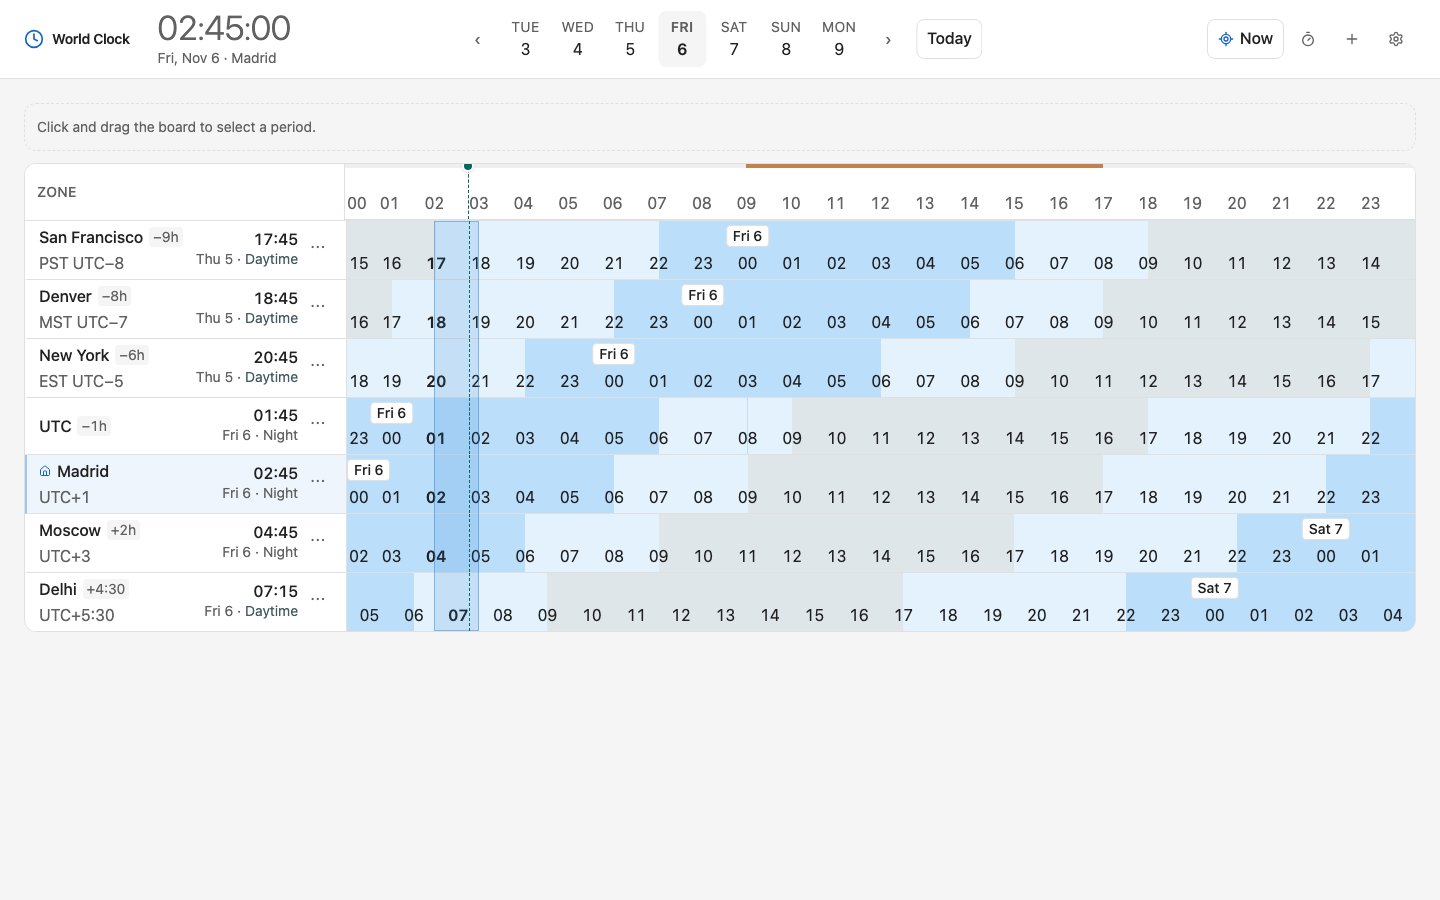
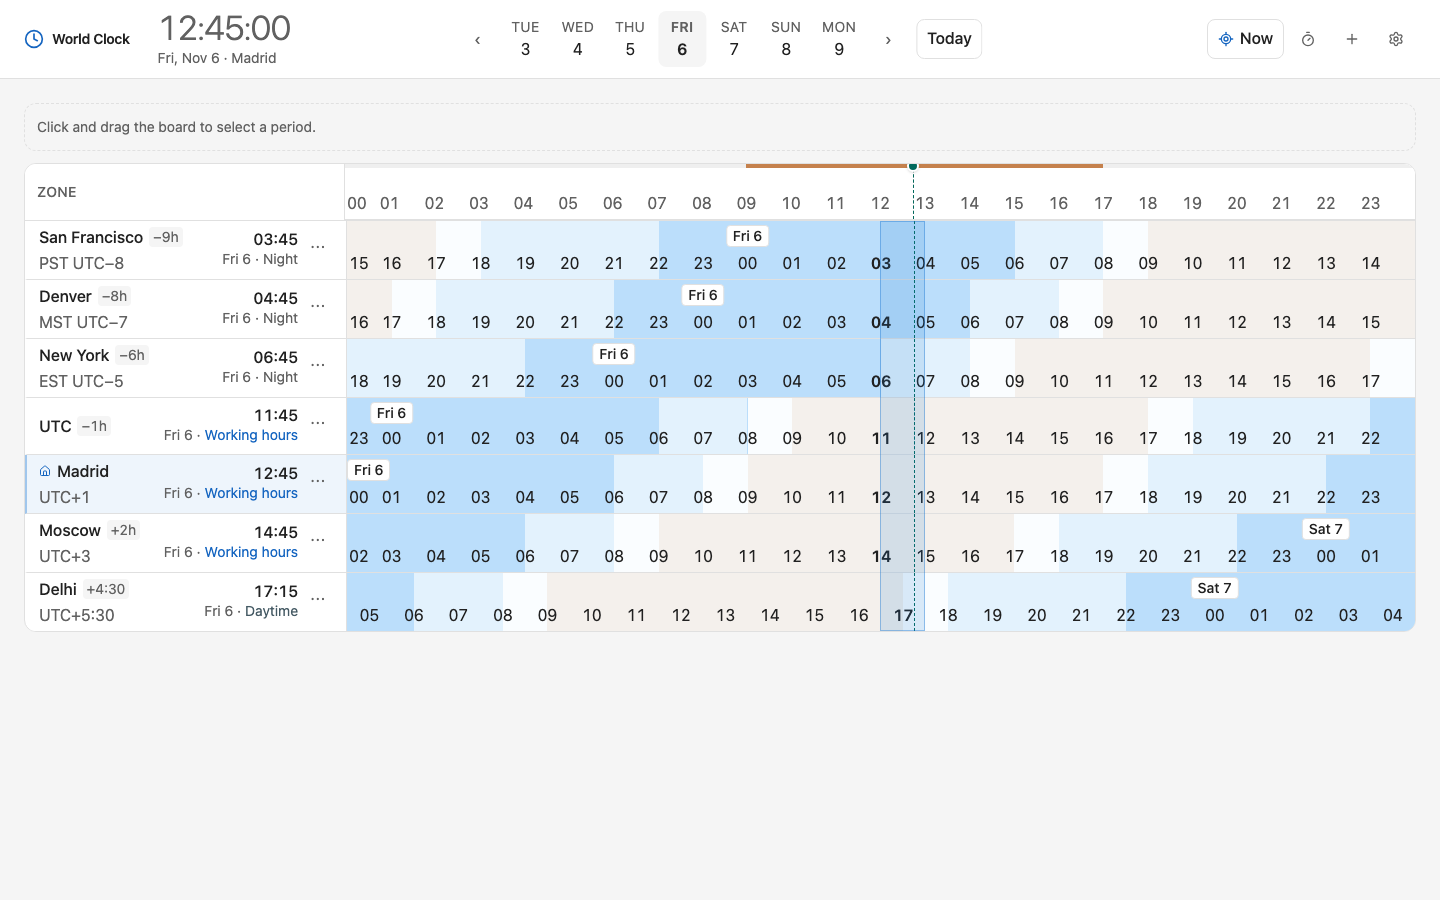
style: lighten the daylight band
Use a near-white blue tint for daylight cells so they read almost white, while keeping twilight and night distinct.

diff --git a/src/app.css b/src/app.css
@@ -41,7 +41,7 @@
   --accent: #1976d2;
   --accent-text: #1565c0;
   --accent-contrast: #ffffff;
-  --band-day: #e3f2fd;
+  --band-day: #fafdff;
   --band-twilight: #e3f2fd;
   --band-night: #bbdefb;
   --band-work: rgb(180 83 9 / 8%);
@@ -66,7 +66,7 @@
   --text: #e8e8e8;
   --muted: #bdbdbd;
   --border: #555555;
-  --band-day: #e3f2fd;
+  --band-day: #fafdff;
   --band-twilight: #e3f2fd;
   --band-night: #bbdefb;
   --band-work: rgb(251 191 36 / 12%);

diff --git a/docs/typography.md b/docs/typography.md
@@ -69,7 +69,7 @@ The light theme follows Material Blue:
 | Muted        | `#757575`             | Zone metadata and helpers     |
 | Accent       | `#1976d2`             | Primary actions and selection |
 | Focus        | `#26a69a`             | Focus line and range handles  |
-| Day band     | `#e3f2fd`             | Day and twilight hours        |
+| Day band     | `#fafdff`             | Daylight hours                |
 | Night band   | `#bbdefb`             | Night hours                   |
 | Work marking | `#b45309` / `#fbbf24` | Work-hours strip and tint     |
 
